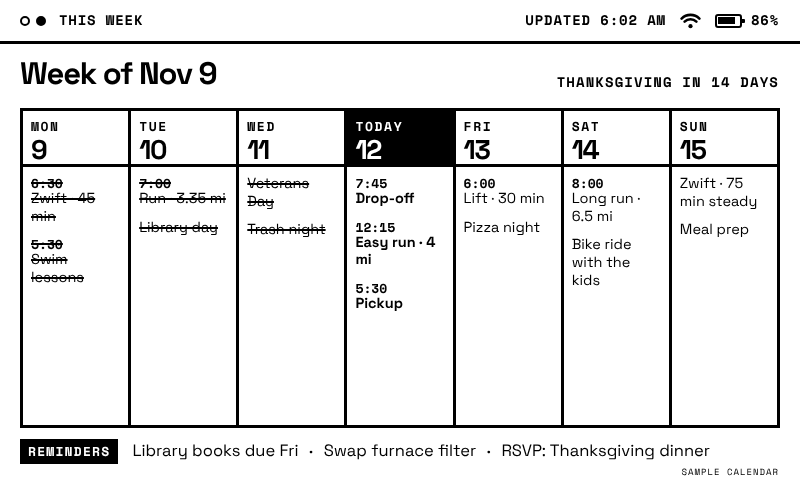
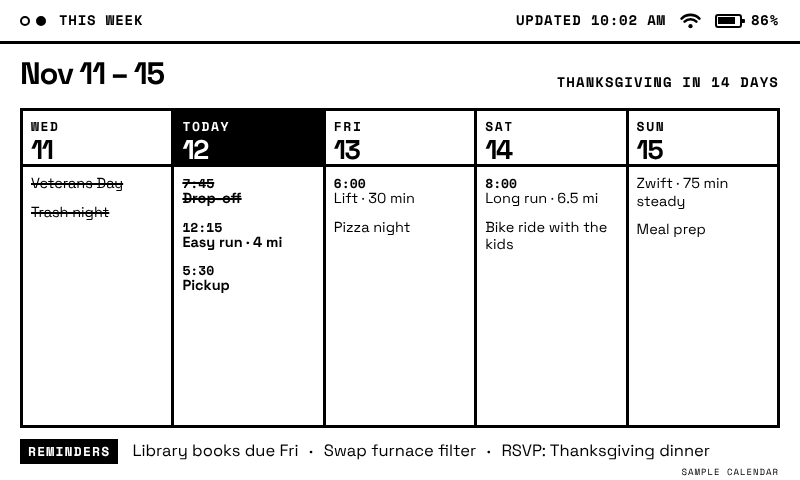
Show five days on This Week: yesterday, today and the next three
The header label is now the date range (e.g. Nov 11 – 15) instead of
Week of. The sample calendar now covers windows that cross a week boundary.

Claude-Session: https://claude.ai/code/session_015oG3bGHNR2VcLuwjmPgYg6

diff --git a/kitchen-board/app/board.py b/kitchen-board/app/board.py
@@ -114,15 +114,27 @@ def _countdown(content: dict, today: date) -> str:
     return f"{name} IN {days} DAYS"
 
 
+# This Week shows yesterday, today and the next three days.
+WEEK_DAYS_BEFORE = 1
+WEEK_DAYS_AFTER = 3
+
+
+def _range_label(first: date, last: date) -> str:
+    if first.month == last.month:
+        return f"{first.strftime('%b')} {first.day} – {last.day}"
+    return f"{first.strftime('%b')} {first.day} – {last.strftime('%b')} {last.day}"
+
+
 def build_week(n: datetime) -> dict:
     content = load_content()
     today = n.date()
-    monday = today - timedelta(days=today.weekday())
-    events = calendar_data.events_between(monday, monday + timedelta(days=7), include_brief_only=False)
+    first = today - timedelta(days=WEEK_DAYS_BEFORE)
+    count = WEEK_DAYS_BEFORE + 1 + WEEK_DAYS_AFTER
+    events = calendar_data.events_between(first, first + timedelta(days=count), include_brief_only=False)
 
     days = []
-    for i in range(7):
-        d = monday + timedelta(days=i)
+    for i in range(count):
+        d = first + timedelta(days=i)
         items = []
         for e in (ev for ev in events if ev.day == d):
             if d < today:
@@ -143,7 +155,7 @@ def build_week(n: datetime) -> dict:
     return {
         **_common("week", n, content),
         "title": "THIS WEEK",
-        "week_label": f"Week of {monday.strftime('%b')} {monday.day}",
+        "week_label": _range_label(first, first + timedelta(days=count - 1)),
         "countdown": _countdown(content, today),
         "days": days,
         "reminders": reminders,

diff --git a/kitchen-board/app/calendar_data.py b/kitchen-board/app/calendar_data.py
@@ -111,8 +111,10 @@ def using_sample() -> bool:
 def events_between(start: date, end: date, include_brief_only: bool) -> list[Event]:
     """Events with start <= day < end, deduplicated and sorted (timed first)."""
     if using_sample():
-        week_start = start - timedelta(days=start.weekday())
-        events = [e for e in _sample(week_start) if start <= e.day < end]
+        events, week_start = [], start - timedelta(days=start.weekday())
+        while week_start < end:   # the window can cross into next week
+            events += [e for e in _sample(week_start) if start <= e.day < end]
+            week_start += timedelta(days=7)
     else:
         events = []
         sources = [(u, "main") for u in config.CALENDAR_ICS_URLS]

diff --git a/README.md b/README.md
@@ -8,7 +8,7 @@ home energy screen for Dominion Energy (see [`dominion/`](dominion/README.md)).
 | Time | Screen |
 | --- | --- |
 | 6:00–9:00 AM | **Morning brief**: date, weather, today's events, three tiles |
-| 9:00 AM–10:00 PM | **This week**: Mon–Sun calendar, a holiday countdown, reminders |
+| 9:00 AM–10:00 PM | **This week**: yesterday, today and the next three days, a holiday countdown, reminders |
 | 10:00 PM–6:00 AM | Sleep, with no refreshes, to save battery |
 
 | Morning brief | This week |
